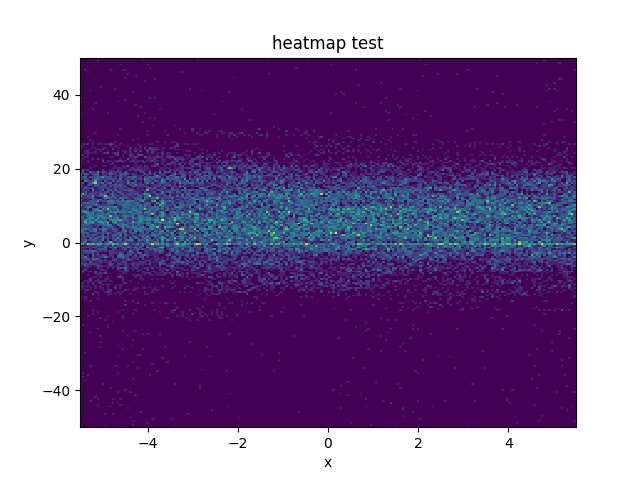
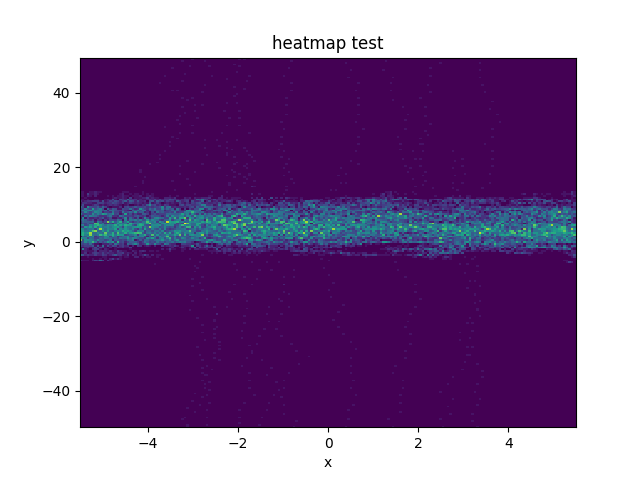
added para

diff --git a/Engine.py b/Engine.py
@@ -2,9 +2,9 @@ import Simulations
 
 
 parameters = Simulations.PolymerSimulationParameters()
-dt = 0.000001
+dt = 0.0000001
 runl = 10000000
-vAverage = 0.05
+vAverage = 0.005
 vs = vAverage/dt
 print(runl/vs)
 print("\n\n\n\n\n")
